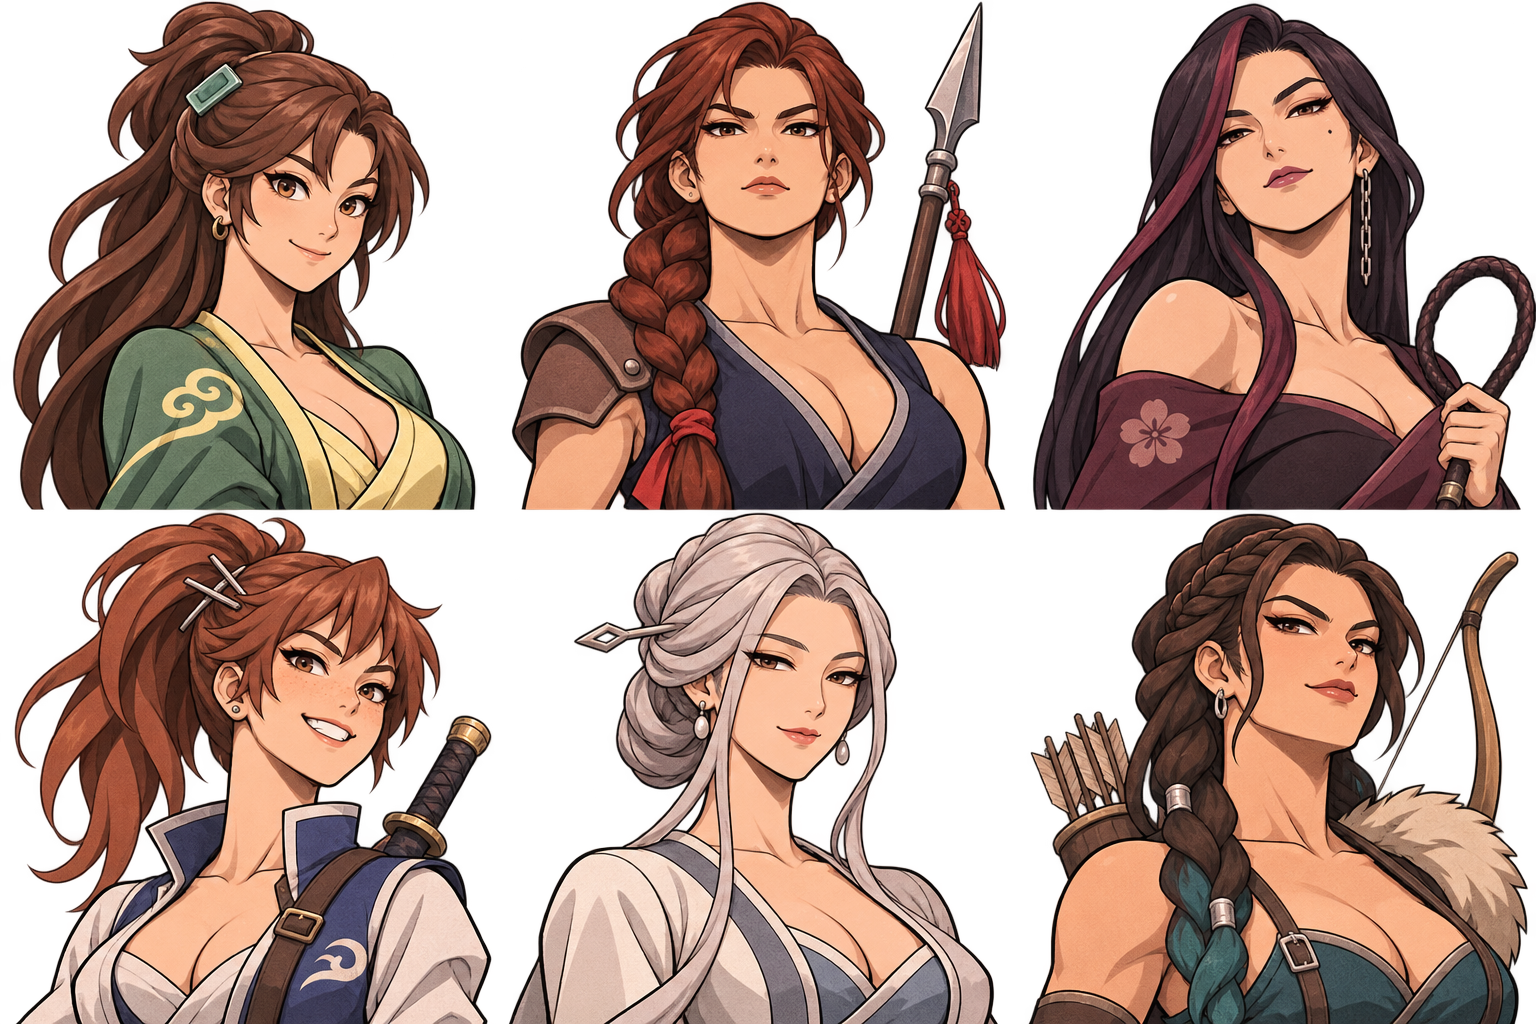
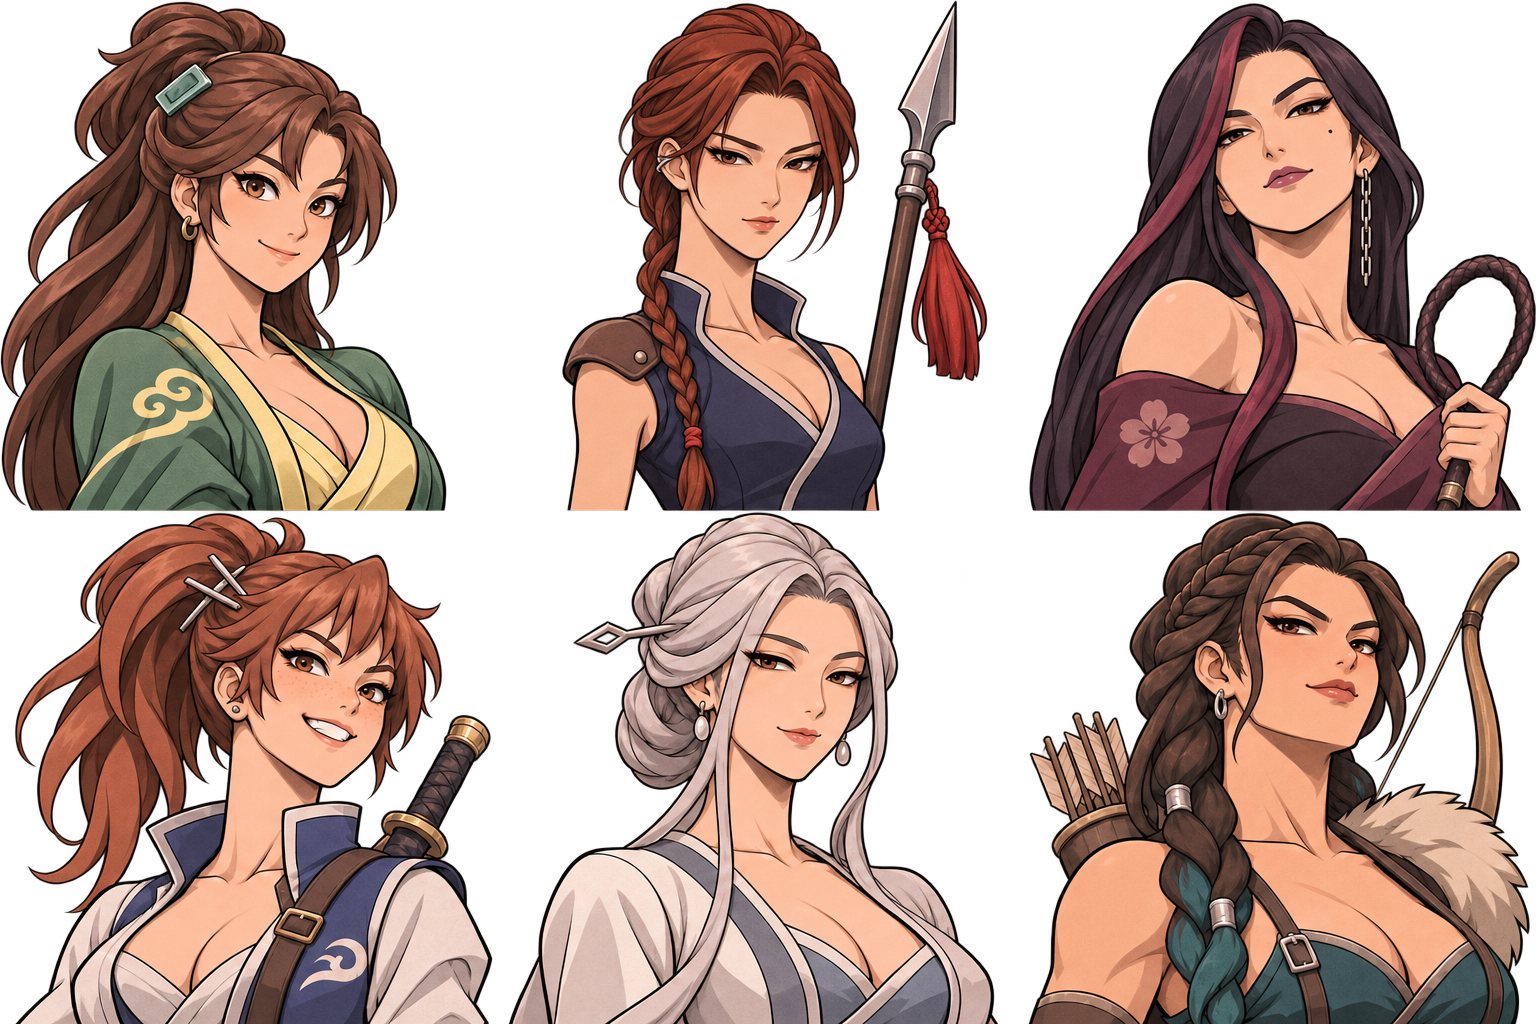
art: refine Cheongwan into a slender spearwoman

diff --git a/src/assets/images/heroines/README.md b/src/assets/images/heroines/README.md
@@ -55,3 +55,5 @@ node tools/build-heroine-gallery.mjs /absolute/path/heroine-art-gallery.html
 ## 초상 3차 수정
 
 투명 배경을 복원하고 선·문양 밀도를 줄였습니다. 황연청 밤갈색/옥 핀, 목청완 적갈색/이어커프, 매설영 흑자주/체인 귀걸이, 한소운 코퍼 브라운/교차 핀, 정요란 애쉬 실버/기하학 비녀, 아영 청록 브레이드/금속 커프로 구분합니다. 기존 이동·시전 시트는 이전 디자인으로, 새 머리색과 복식에 맞춘 후속 수정이 필요합니다. 세트 전체가 최종 일치 상태는 아닙니다.
+
+목청완 초상 추가 수정: 좁은 얼굴형·어깨, 가는 팔과 땋은 머리, 작은 견갑, 긴 목선과 턱을 내린 차분한 시선으로 아영의 탄탄한 체격과 구분했습니다.
